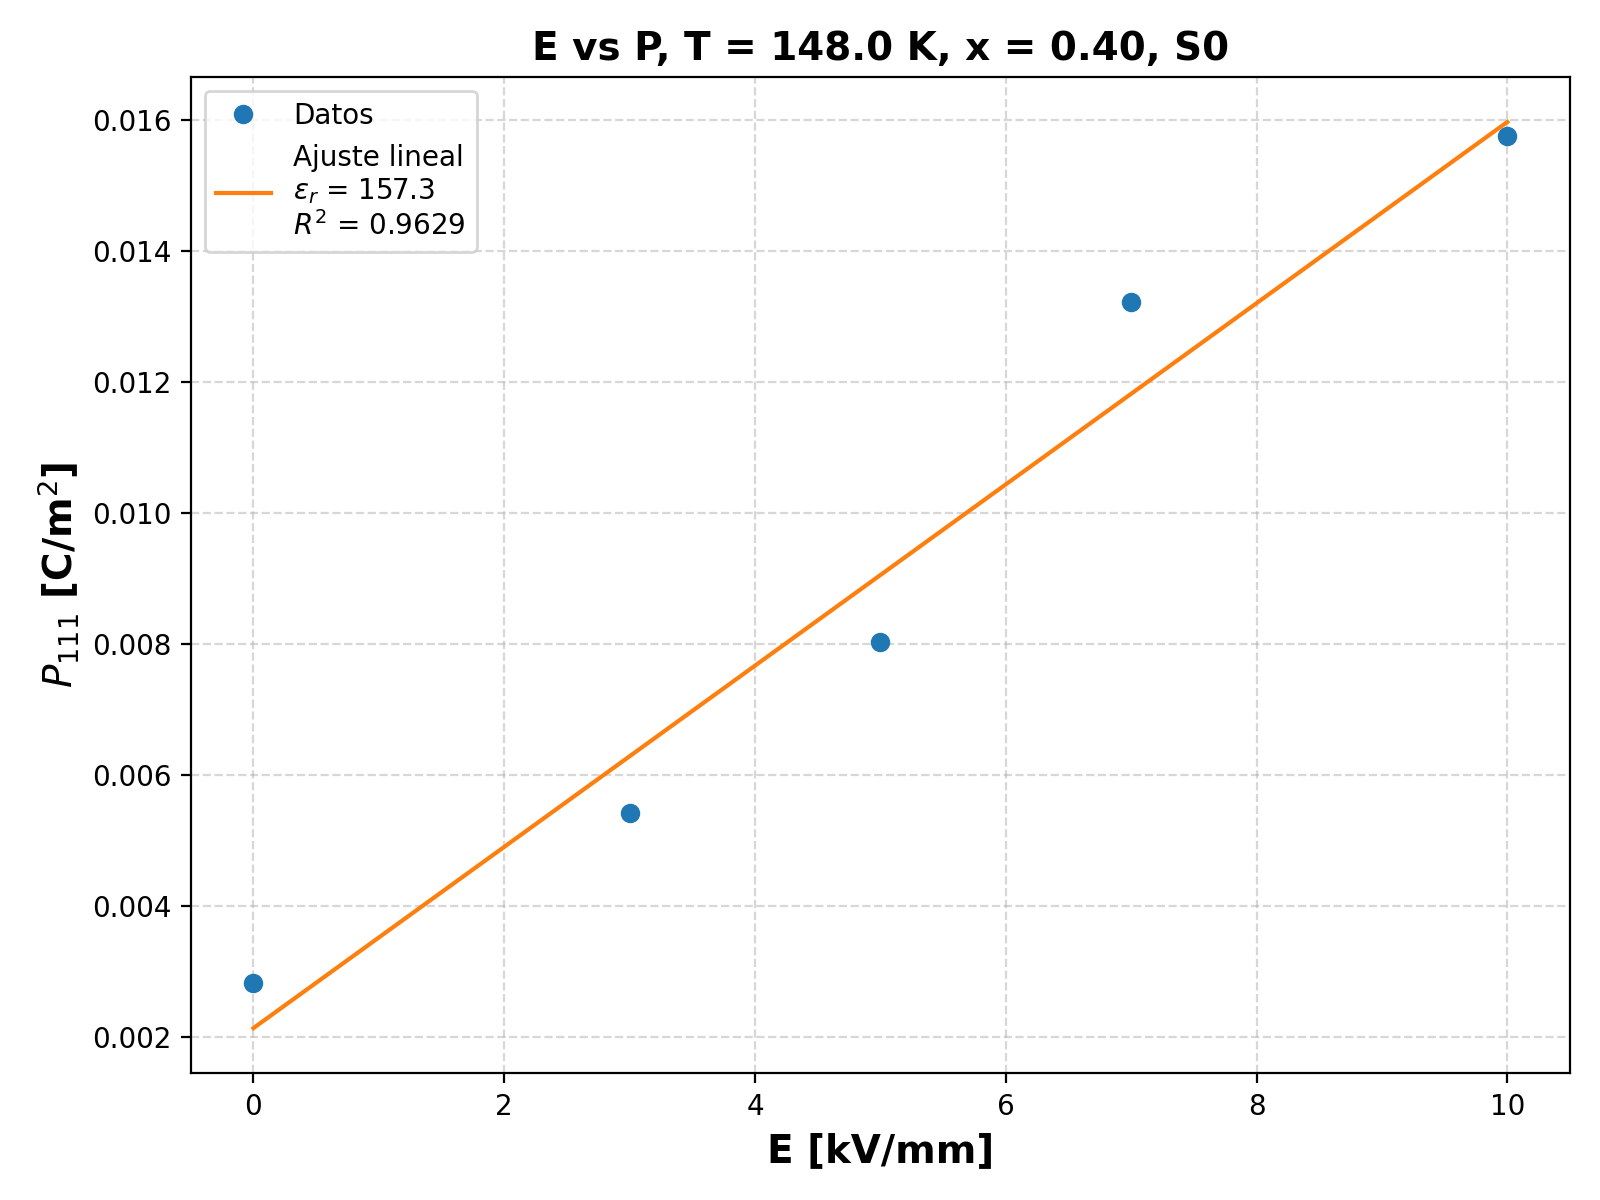
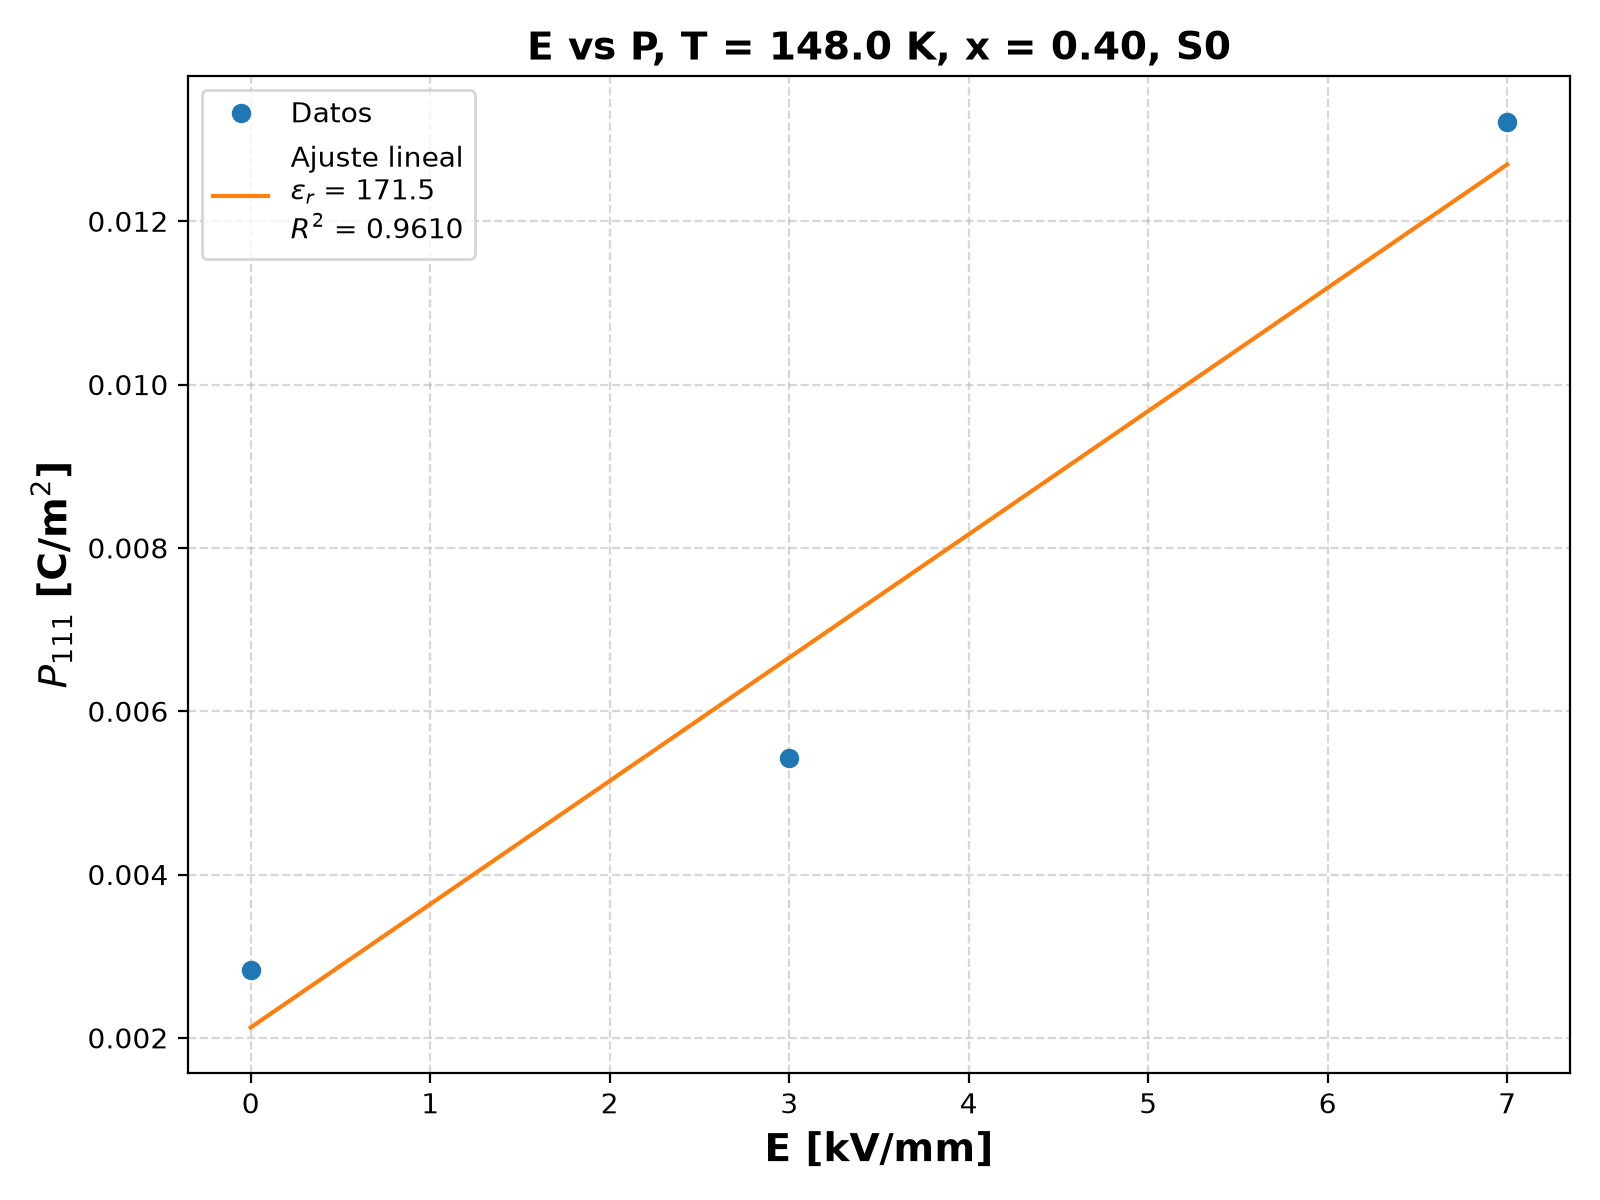
BZT - Segregated -  Correcion permitividades - Parte 2

diff --git a/Bzt-Segregated/Permitividad_dieléctrica/Permitividad.py b/Bzt-Segregated/Permitividad_dieléctrica/Permitividad.py
@@ -1,0 +1,167 @@
+#!/usr/bin/env python3
+import re
+import numpy as np
+import matplotlib.pyplot as plt
+from collections import defaultdict
+import os
+
+# Etiquetas
+CONC = "0.40"
+AGREGACION = ["S0", "S50", "S100"]   # se procesa cada agregación de la lista
+
+# Valores de campo eléctrico [kV/mm] a usar en el ajuste (campo aplicado en la dirección [111])
+FIELDS_KV_MM = [0.0, 3.0, 7.0]
+
+# Factor de escala de temperatura (solo para graficar)
+T_SCALE = 1.48
+
+# Carpetas (relativas a la carpeta de este script)
+BASE_DIR = os.path.dirname(os.path.abspath(__file__))
+
+# Unit conversions
+U_P_UC_CM2_TO_C_M2 = 1e-2   # μC/cm^2 -> C/m^2
+U_E_KV_MM_TO_V_M   = 1e6    # kV/mm   -> V/m
+EPS0 = 8.854187817e-12      # F/m
+
+# Regex to parse "5kV_mm"
+field_re = re.compile(r"^\s*([+-]?\d+(?:\.\d+)?)\s*kV_mm\s*$")
+
+
+def read_polarization(input_file):
+    """Devuelve {T: [(E [V/m], P_[111] [C/m^2])]} usando solo los campos de FIELDS_KV_MM."""
+    by_T_111 = defaultdict(list)
+    with open(input_file, "r") as f:
+        for line in f:
+            line = line.strip()
+            if not line or line.startswith("#"):
+                continue
+
+            parts = line.split()
+            # Expect: T, "EkV_mm", Px, Py, Pz, |P|
+            if len(parts) < 6:
+                continue
+
+            try:
+                T = int(float(parts[0]))
+
+                m = field_re.match(parts[1])
+                if not m:
+                    continue
+                E_kV_mm = float(m.group(1))
+                if not any(np.isclose(E_kV_mm, fld) for fld in FIELDS_KV_MM):
+                    continue
+                E_V_m = E_kV_mm * U_E_KV_MM_TO_V_M  # campo aplicado a lo largo de [111]
+
+                Px = float(parts[2]) * U_P_UC_CM2_TO_C_M2
+                Py = float(parts[3]) * U_P_UC_CM2_TO_C_M2
+                Pz = float(parts[4]) * U_P_UC_CM2_TO_C_M2
+
+                # Projection onto [111]
+                by_T_111[T].append((E_V_m, (Px + Py + Pz) / np.sqrt(3.0)))
+            except ValueError:
+                continue
+    return by_T_111
+
+
+def fit_eps_vs_E(data_pairs):
+    """
+    data_pairs: list of (E, P_component) in SI.
+    Returns (eps_r, slope, intercept, r2) where slope = dP/dE [F/m], eps_r = 1 + slope/eps0
+    """
+    data_pairs = sorted(data_pairs, key=lambda x: x[0])
+    E = np.array([d[0] for d in data_pairs], dtype=float)
+    P = np.array([d[1] for d in data_pairs], dtype=float)
+    slope, intercept = np.polyfit(E, P, 1)
+    eps_r = 1.0 + slope / EPS0
+    ss_res = np.sum((P - (slope * E + intercept)) ** 2)
+    ss_tot = np.sum((P - P.mean()) ** 2)
+    r2 = 1.0 - ss_res / ss_tot if ss_tot > 0 else float("nan")
+    return eps_r, slope, intercept, r2
+
+
+def process(agregacion):
+    input_file = os.path.join(BASE_DIR, "Datos_polarizaciones", f"polmacro-{CONC}-{agregacion}")
+    table_111  = os.path.join(BASE_DIR, "Datos_permitividad", f"permittivity-table-{CONC}-{agregacion}.dat")
+    ref_111    = os.path.join(BASE_DIR, "Datos_permitividad", f"permittivity-e111-table-{CONC}-{agregacion}.dat")
+    fits_dir   = os.path.join(BASE_DIR, "Graficas_EvsP", f"{CONC}-{agregacion}")
+
+    if not os.path.exists(input_file):
+        print(f"[{agregacion}] No se encontró el archivo de datos: {input_file}")
+        return
+
+    by_T_111 = read_polarization(input_file)
+
+    # ---- [111] results ----
+    fit_details_111 = []  # (T, eps_r_111, slope_111, r2)
+    for T in sorted(by_T_111.keys()):
+        if len(by_T_111[T]) < 2:
+            continue
+        eps_r_111, slope_111, _, r2_111 = fit_eps_vs_E(by_T_111[T])
+        fit_details_111.append((T, eps_r_111, slope_111, r2_111))
+
+    if not fit_details_111:
+        print(f"[{agregacion}] No valid [111] results to process.")
+        return
+
+    # Save [111] table
+    os.makedirs(os.path.dirname(table_111), exist_ok=True)
+    with open(table_111, "w") as fout:
+        fout.write("# T(K)    eps_111(rel)        slope_dP_dE_SI(C_per_m2_per_V_per_m)    R2\n")
+        for T, epsr, slope, r2 in sorted(fit_details_111):
+            fout.write(f"{T:6d}  {epsr:12.1f}    {slope:.6e}    {r2:.4f}\n")
+
+    # Gráficas E vs P con el ajuste lineal, una por temperatura (carpeta aparte)
+    os.makedirs(fits_dir, exist_ok=True)
+    for T in sorted(by_T_111.keys()):
+        if len(by_T_111[T]) < 2:
+            continue
+        pairs = sorted(by_T_111[T], key=lambda x: x[0])
+        E = np.array([p[0] for p in pairs])
+        P = np.array([p[1] for p in pairs])
+        slope, intercept = np.polyfit(E, P, 1)
+        E_fit = np.linspace(E.min(), E.max(), 100)
+        ss_res = np.sum((P - (slope * E + intercept)) ** 2)
+        ss_tot = np.sum((P - P.mean()) ** 2)
+        r2 = 1.0 - ss_res / ss_tot
+
+        fig, ax = plt.subplots(figsize=(8, 6))
+        ax.plot(E / 1e6, P, "o", label="Datos")
+        ax.plot(E_fit / 1e6, slope * E_fit + intercept, "-",
+                label=f"Ajuste lineal\n" + r"$\varepsilon_r$" + f" = {1.0 + slope / EPS0:.1f}\n" + r"$R^2$" + f" = {r2:.4f}")
+        ax.set_xlabel("E [kV/mm]", fontsize=14, fontweight='bold')
+        ax.set_ylabel(r"$P_{111}$ [C/m$^2$]", fontsize=14, fontweight='bold')
+        ax.set_title(f"E vs P, T = {T_SCALE*T:.1f} K, x = {CONC}, {agregacion}", fontsize=14, fontweight='bold')
+        ax.grid(True, linestyle='--', alpha=0.5)
+        ax.legend()
+        fig.tight_layout()
+        fig.savefig(os.path.join(fits_dir, f"EvsP-{CONC}-{agregacion}-T{T}.png"), dpi=200)
+        plt.close(fig)
+
+    # Plot [111] (se muestra al final, junto con los de las otras agregaciones)
+    fit_details_111.sort(key=lambda x: x[0])
+    Ts_111   = T_SCALE*np.array([t for t, _, _, _ in fit_details_111])
+    epsr_111 = [e for _, e, _, _ in fit_details_111]
+
+    plt.figure(figsize=(10, 6))
+    plt.plot(Ts_111, epsr_111, marker='o', linewidth=1.8, label="Campos seleccionados")
+
+    # Comparación con la tabla de referencia permittivity-e111-table
+    if os.path.exists(ref_111):
+        ref = np.loadtxt(ref_111, usecols=(0, 1), comments="#")
+        plt.plot(T_SCALE*ref[:, 0], ref[:, 1], marker='s', linewidth=1.8, linestyle='--',
+                 label="permittivity-e111-table")
+    else:
+        print(f"[{agregacion}] No se encontró la tabla de referencia: {ref_111}")
+    plt.legend(fontsize=12)
+    plt.xlabel("Temperatura [K]", fontsize=14, fontweight='bold')
+    plt.ylabel("Permitividad Relativa "+r"$(\varepsilon_{r,111})$", fontsize=14, fontweight='bold')
+    plt.title(f"Permitividad Relativa vs Temperatura, x = {CONC}, {agregacion} ", fontsize=16, fontweight='bold')
+    plt.grid(True, linestyle='--', alpha=0.5)
+    plt.minorticks_on()
+    plt.tight_layout()
+
+
+for agregacion in AGREGACION:
+    process(agregacion)
+
+plt.show()

diff --git a/Bzt-Segregated/Permitividad_dieléctrica/Permitividad-suavizado.py b/Bzt-Segregated/Permitividad_dieléctrica/Permitividad-suavizado.py
@@ -7,13 +7,16 @@ import os
 
 # Etiquetas
 CONC = "0.40"
-AGREGACION = ["S0", "S50"]   # se procesa cada agregación de la lista
+AGREGACION = ["S0", "S50", "S100"]   # se procesa cada agregación de la lista
 
 # Valores de campo eléctrico [kV/mm] a usar en el ajuste (campo aplicado en la dirección [111])
 FIELDS_KV_MM = [0.0, 3.0, 5.0, 7.0, 10.0]
 
 # Factor de escala de temperatura (solo para graficar)
 T_SCALE = 1.48
+
+# Ventana del promedio móvil para suavizar eps_r vs T (1 = sin suavizado)
+SMOOTH_N = 1
 
 # Carpetas (relativas a la carpeta de este script)
 BASE_DIR = os.path.dirname(os.path.abspath(__file__))
@@ -77,6 +80,17 @@ def fit_eps_vs_E(data_pairs):
     ss_tot = np.sum((P - P.mean()) ** 2)
     r2 = 1.0 - ss_res / ss_tot if ss_tot > 0 else float("nan")
     return eps_r, slope, intercept, r2
+
+
+def smooth(y, n):
+    """Promedio móvil centrado de n puntos; en los bordes promedia los puntos disponibles."""
+    y = np.asarray(y, dtype=float)
+    if n <= 1 or len(y) < 2:
+        return y
+    kernel = np.ones(n)
+    suma = np.convolve(y, kernel, mode="same")
+    cuenta = np.convolve(np.ones_like(y), kernel, mode="same")
+    return suma / cuenta
 
 
 def process(agregacion):
@@ -143,7 +157,9 @@ def process(agregacion):
     epsr_111 = [e for _, e, _, _ in fit_details_111]
 
     plt.figure(figsize=(10, 6))
-    plt.plot(Ts_111, epsr_111, marker='o', linewidth=1.8, label="Campos seleccionados")
+    plt.plot(Ts_111, epsr_111, marker='o', linestyle='none', alpha=0.4, label="Campos seleccionados")
+    plt.plot(Ts_111, smooth(epsr_111, SMOOTH_N), linewidth=2.2,
+             label=f"Campos seleccionados (suavizado n={SMOOTH_N})")
 
     # Comparación con la tabla de referencia permittivity-e111-table
     if os.path.exists(ref_111):
